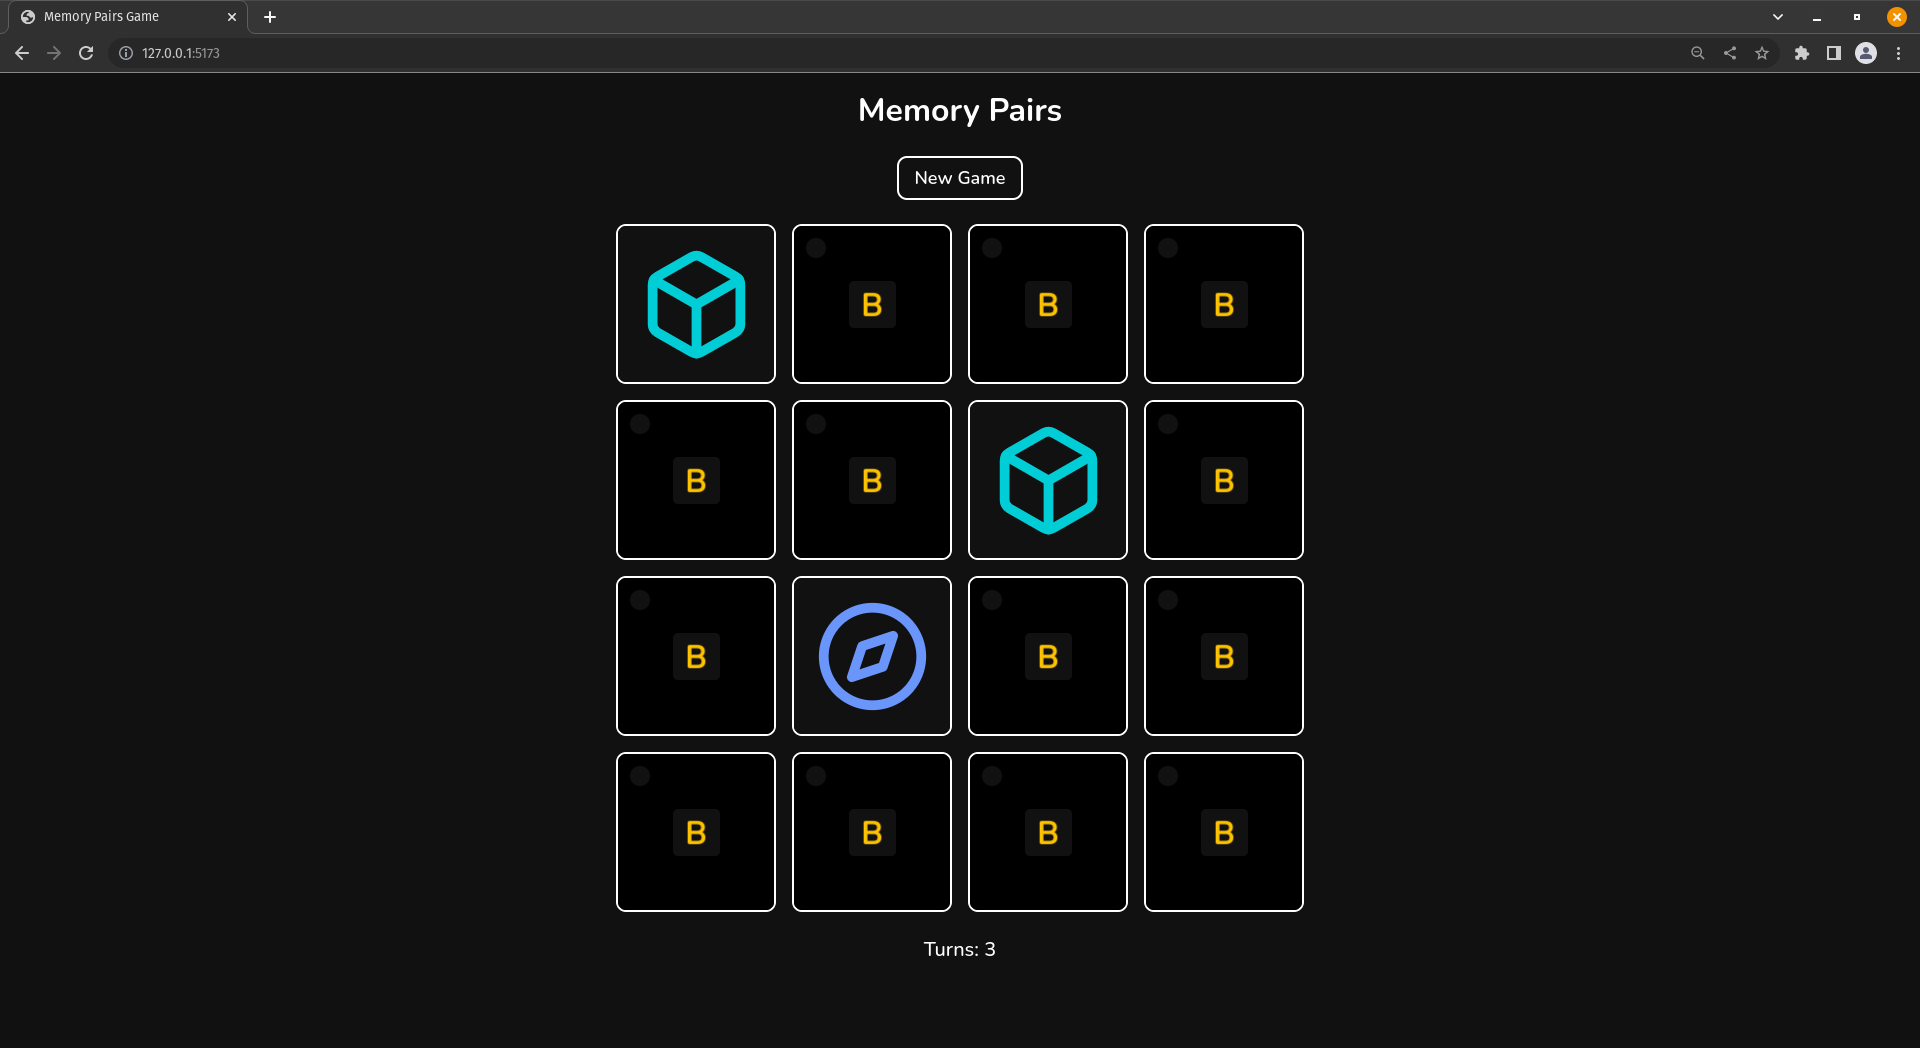
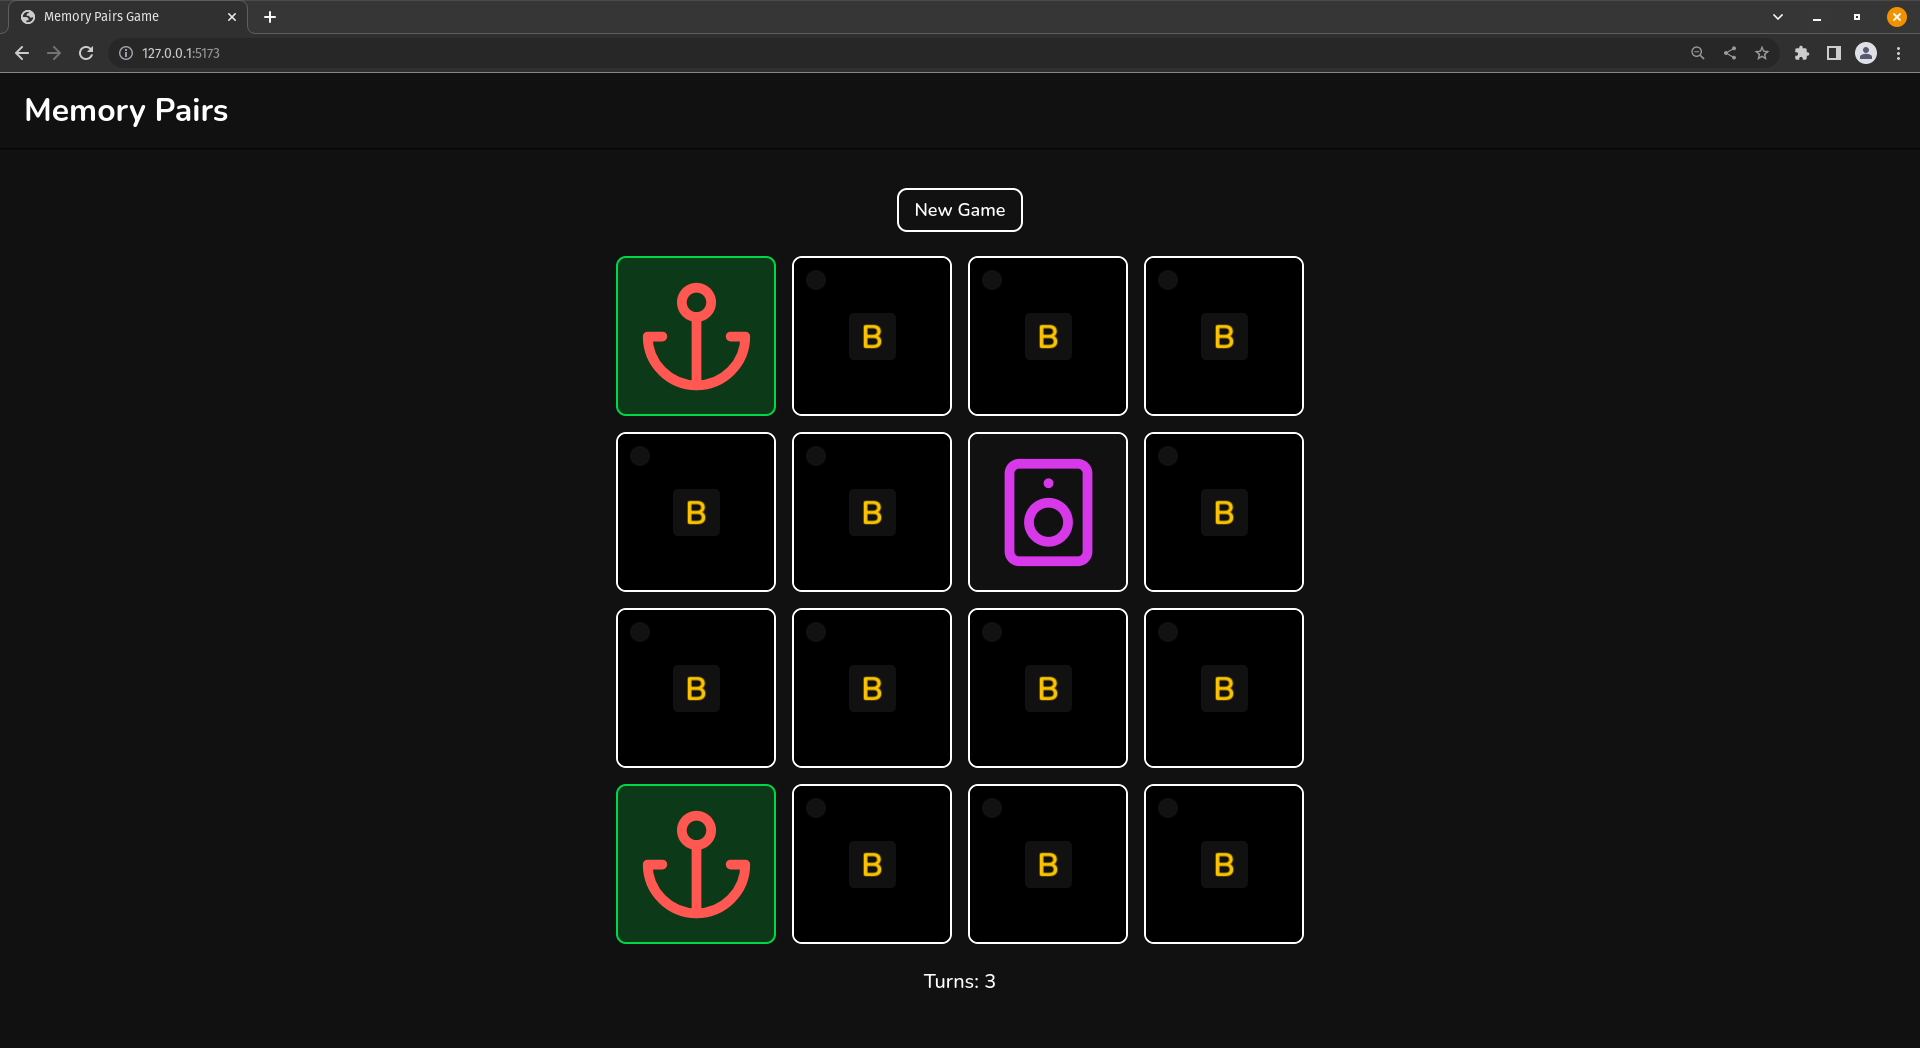
some fixes & improvements

diff --git a/src/App.jsx b/src/App.jsx
@@ -12,7 +12,7 @@ const cardsData = [
   { svg: <Headphones color="#9d94ff" /> },
   { svg: <Smile color="#ffb480" /> },
   { svg: <Speaker color="#c780e8" /> },
-].map((card, i) => ({ ...card, matched: false, pairNo: i }));
+].map((card, i) => ({ ...card, matched: false, groupNo: i }));
 
 function App() {
   const [cards, setCards] = useState([]);
@@ -26,18 +26,16 @@ function App() {
     if (choiceOne && choiceTwo) {
       setTurns(turns + 1);
 
-      if (choiceOne.pairNo === choiceTwo.pairNo) {
+      if (choiceOne.groupNo === choiceTwo.groupNo) {
         setCards((prevCards) => {
           return prevCards.map((card) => {
-            if (card.pairNo === choiceOne.pairNo) {
+            if (card.groupNo === choiceOne.groupNo) {
               return { ...card, matched: true };
             }
 
             return card;
           });
         });
-      } else {
-        console.log("Doesn't match!");
       }
 
       setTimeout(resetChoices, 1000);
@@ -63,24 +61,33 @@ function App() {
   }
 
   function handleCardClick(card) {
+    if (choiceOne && choiceTwo) {
+      return;
+    }
+
     choiceOne ? setChoiceTwo(card) : setChoiceOne(card);
   }
 
   return (
     <div className="app">
-      <h1>Memory Pairs</h1>
-      <button onClick={reset}>New Game</button>
-      <div className="cards">
-        {cards.map((card, i) => (
-          <Card
-            card={card}
-            key={i}
-            flipped={card === choiceOne || card === choiceTwo || card.matched}
-            handleCardClick={handleCardClick}
-          />
-        ))}
-      </div>
-      <p className="turns">Turns: {turns}</p>
+      <header>
+        <h1>Memory Pairs</h1>
+      </header>
+
+      <main>
+        <button onClick={reset}>New Game</button>
+        <div className="cards">
+          {cards.map((card, i) => (
+            <Card
+              card={card}
+              key={i}
+              flipped={card === choiceOne || card === choiceTwo || card.matched}
+              handleCardClick={handleCardClick}
+            />
+          ))}
+        </div>
+        <p className="turns">Turns: {turns}</p>
+      </main>
     </div>
   );
 }

diff --git a/src/components/Card.scss b/src/components/Card.scss
@@ -39,7 +39,7 @@
       display: block;
       width: 13%;
       height: 13%;
-      background-color: #111;
+      background-color: var(--bg-color);
       border-radius: 50%;
       position: absolute;
       top: 7.5%;
@@ -56,6 +56,14 @@
     .card__back {
       transform: rotateY(90deg);
       transition-delay: 0ms;
+    }
+  }
+
+  &--matched {
+    border-color: #4dc24d;
+
+    .card__front {
+      background-color: #2e882e4d;
     }
   }
 }

diff --git a/src/components/Card.jsx b/src/components/Card.jsx
@@ -6,7 +6,7 @@ export default function Card({ card, flipped, handleCardClick }) {
   }
 
   return (
-    <div className={`card ${flipped ? "card--flipped" : ""}`}>
+    <div className={`card ${flipped ? "card--flipped" : ""} ${card.matched ? "card--matched" : ""}`}>
       <div className="card__front">{card.svg}</div>
       <div className="card__back" onClick={handleClick}></div>
     </div>

diff --git a/src/App.scss b/src/App.scss
@@ -1,6 +1,21 @@
 .app {
-  padding: 16px;
   text-align: center;
+  position: relative;
+
+  header {
+    text-align: left;
+    box-shadow: 0px 1px 2px #000;
+    position: sticky;
+    padding: 16px 24px;
+    top: 0;
+    left: 0;
+    background-color: var(--bg-color);
+    z-index: 1;
+  }
+
+  main {
+    padding: 16px 16px 24px;
+  }
 
   button {
     margin: 24px 0;
